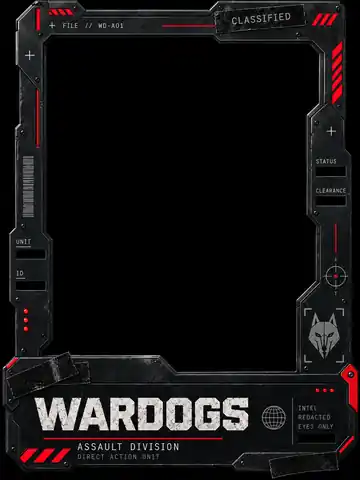
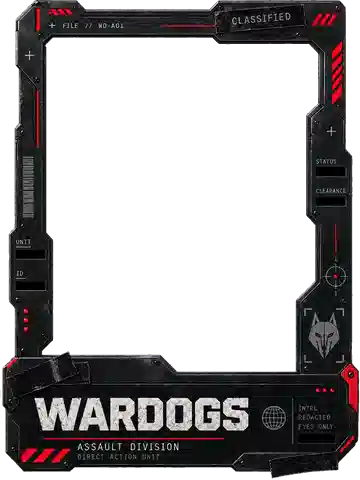
Refresh WARDOGS Assault Support Pilot frames

diff --git a/index.html b/index.html
@@ -26,10 +26,10 @@ body[data-mws-mode="admin"] .sidebar-build-version-v53{display:block}
 .sidebar-build-version-v53 + .sidebar-save-v572{margin-top:4px!important}
 </style>
 <link rel="stylesheet" href="assets/mawang-premium-v1621.css?v=1.6.21-premium2-phase154">
-<link rel="stylesheet" href="assets/wardogs-v1.css?v=1.0.0-phase125-mobile129-portrait138-gallery136-aperture152-medicaperture165">
+<link rel="stylesheet" href="assets/wardogs-v1.css?v=1.0.0-phase125-mobile129-portrait138-gallery136-aperture152-medicaperture165-classapertures166">
 <link rel="stylesheet" href="assets/wardogs-gallery-phase142.css?v=1.0.0-phase151">
 <link rel="stylesheet" href="assets/wardogs-intro-v1.css?v=1.0.0-phase118">
-<link rel="stylesheet" href="assets/wardogs-manager-v1.css?v=1.0.0-phase127-mobile129-frame140-frame144-aperture152-medicaperture165">
+<link rel="stylesheet" href="assets/wardogs-manager-v1.css?v=1.0.0-phase127-mobile129-frame140-frame144-aperture152-medicaperture165-classapertures166">
 </head>
 <body data-theme="neon" class="mws-gated mws-premium" data-build-version="MWS V 1.4.0">
 <div id="mwsAccessGate" aria-modal="true" role="dialog">
@@ -1659,8 +1659,8 @@ body[data-mws-mode="admin"] .sidebar-build-version-v53{display:block}
 <script src="assets/app-core.js?v=1.3.0-search115-wardogs116-backup126-datetime149"></script>
 <script src="assets/wardogs-data-v1.js?v=1.0.0-phase120-webview130-zoom138"></script>
 <script src="assets/wardogs-media-v1.js?v=1.0.0-phase121-backup126-webview130"></script>
-<script src="assets/wardogs-manager-v1.js?v=1.0.0-phase127-touchfix-webview130-frame140-frame144-frames150-aperture152-assault157-medic165-recon163-support164-driver161-pilot162"></script>
-<script src="assets/wardogs-v1.js?v=1.0.0-phase125-portrait138-soopid141-frames150-aperture152-assault157-medic165-recon163-support164-driver161-pilot162"></script>
+<script src="assets/wardogs-manager-v1.js?v=1.0.0-phase127-touchfix-webview130-frame140-frame144-frames150-aperture152-assault166-medic165-recon163-support166-driver161-pilot166"></script>
+<script src="assets/wardogs-v1.js?v=1.0.0-phase125-portrait138-soopid141-frames150-aperture152-assault166-medic165-recon163-support166-driver161-pilot166"></script>
 <script src="assets/wardogs-intro-v1.js?v=1.0.0-phase118"></script>
 
 

diff --git a/assets/wardogs-manager-v1.js b/assets/wardogs-manager-v1.js
@@ -15,12 +15,12 @@ const CLASS_META=Object.freeze([
 const CLASS_RANK=new Map(CLASS_META.map((item,index)=>[item.id,index]));
 
 const CLASS_FRAMES=Object.freeze({
-  assault:'assets/wardogs-frames/assault.webp?v=phase157',
+  assault:'assets/wardogs-frames/assault.webp?v=phase166',
   medic:'assets/wardogs-frames/medic.webp?v=phase165',
   recon:'assets/wardogs-frames/recon.webp?v=phase163',
-  support:'assets/wardogs-frames/support.webp?v=phase164',
+  support:'assets/wardogs-frames/support.webp?v=phase166',
   driver:'assets/wardogs-frames/driver.webp?v=phase161',
-  pilot:'assets/wardogs-frames/pilot.webp?v=phase162'
+  pilot:'assets/wardogs-frames/pilot.webp?v=phase166'
 });
 
 let modal=null;
@@ -994,6 +994,7 @@ window.__mwsWardogsPortraitCanvasV138='quarter-scale-contain-black-no-loading-ov
 window.__mwsWardogsManagerFrameV140='img-layer-class-frame';
 window.__mwsWardogsManagerFrameV144='single-img-frame-no-overlay';
 window.__mwsWardogsFrameSourcesV150='user-source-rebuild-cache-busted';
+window.__mwsWardogsFrameBatchV166='assault-support-pilot-class-apertures';
 window.__mwsWardogsPortraitApertureV152='fixed-inner-window-manager-gallery-detail';
 window.addEventListener('mawang:datachange',event=>{
   if(String(event?.detail?.reason||'').startsWith('WARDOGS')){

diff --git a/assets/wardogs-v1.js b/assets/wardogs-v1.js
@@ -14,12 +14,12 @@ const CLASSES=Object.freeze([
 ]);
 
 const CLASS_FRAMES=Object.freeze({
-  assault:'assets/wardogs-frames/assault.webp?v=phase157',
+  assault:'assets/wardogs-frames/assault.webp?v=phase166',
   medic:'assets/wardogs-frames/medic.webp?v=phase165',
   recon:'assets/wardogs-frames/recon.webp?v=phase163',
-  support:'assets/wardogs-frames/support.webp?v=phase164',
+  support:'assets/wardogs-frames/support.webp?v=phase166',
   driver:'assets/wardogs-frames/driver.webp?v=phase161',
-  pilot:'assets/wardogs-frames/pilot.webp?v=phase162'
+  pilot:'assets/wardogs-frames/pilot.webp?v=phase166'
 });
 function applyClassFrame(layer,classId){
   if(!layer)return;
@@ -600,6 +600,7 @@ window.__mwsWardogsClassFramesV135='uploaded-transparent-overlays';
 window.__mwsWardogsPortraitCanvasV138='quarter-scale-contain-black-no-loading-overlay';
 window.__mwsWardogsSoopIdV141='station-url-display-fallback-contact-id';
 window.__mwsWardogsFrameSourcesV150='user-source-rebuild-cache-busted';
+window.__mwsWardogsFrameBatchV166='assault-support-pilot-class-apertures';
 window.__mwsWardogsPortraitApertureV152='fixed-inner-window-manager-gallery-detail';
 
 if(document.readyState==='loading')document.addEventListener('DOMContentLoaded',init,{once:true});

diff --git a/assets/wardogs-manager-v1.css b/assets/wardogs-manager-v1.css
@@ -307,3 +307,18 @@ body.mws-wardogs-touch-ordering-v127 .wardogs-manager-list-pane-v122{
   -webkit-clip-path:inset(8.2% 11.7% 23% 11.8%);
   clip-path:inset(8.2% 11.7% 23% 11.8%);
 }
+
+
+/* Phase 166: class-specific portrait apertures for refreshed frames. */
+.wardogs-manager-drop-v122[data-wardogs-class="assault"] .wardogs-manager-portrait-clip-v152{
+  -webkit-clip-path:inset(7.9% 11.6% 22.6% 11.8%);
+  clip-path:inset(7.9% 11.6% 22.6% 11.8%);
+}
+.wardogs-manager-drop-v122[data-wardogs-class="support"] .wardogs-manager-portrait-clip-v152{
+  -webkit-clip-path:inset(8.2% 12.1% 23.8% 12.2%);
+  clip-path:inset(8.2% 12.1% 23.8% 12.2%);
+}
+.wardogs-manager-drop-v122[data-wardogs-class="pilot"] .wardogs-manager-portrait-clip-v152{
+  -webkit-clip-path:inset(8.8% 12.2% 23.9% 13.3%);
+  clip-path:inset(8.8% 12.2% 23.9% 13.3%);
+}

diff --git a/assets/wardogs-v1.css b/assets/wardogs-v1.css
@@ -491,3 +491,18 @@ body.mws-wardogs-detail-open-v125{overflow:hidden!important}
   -webkit-clip-path:inset(8.2% 11.7% 23% 11.8%);
   clip-path:inset(8.2% 11.7% 23% 11.8%);
 }
+
+
+/* Phase 166: class-specific portrait apertures for refreshed frames. */
+.wardogs-portrait-stage-v134[data-wardogs-class="assault"] .wardogs-portrait-clip-v152{
+  -webkit-clip-path:inset(7.9% 11.6% 22.6% 11.8%);
+  clip-path:inset(7.9% 11.6% 22.6% 11.8%);
+}
+.wardogs-portrait-stage-v134[data-wardogs-class="support"] .wardogs-portrait-clip-v152{
+  -webkit-clip-path:inset(8.2% 12.1% 23.8% 12.2%);
+  clip-path:inset(8.2% 12.1% 23.8% 12.2%);
+}
+.wardogs-portrait-stage-v134[data-wardogs-class="pilot"] .wardogs-portrait-clip-v152{
+  -webkit-clip-path:inset(8.8% 12.2% 23.9% 13.3%);
+  clip-path:inset(8.8% 12.2% 23.9% 13.3%);
+}
